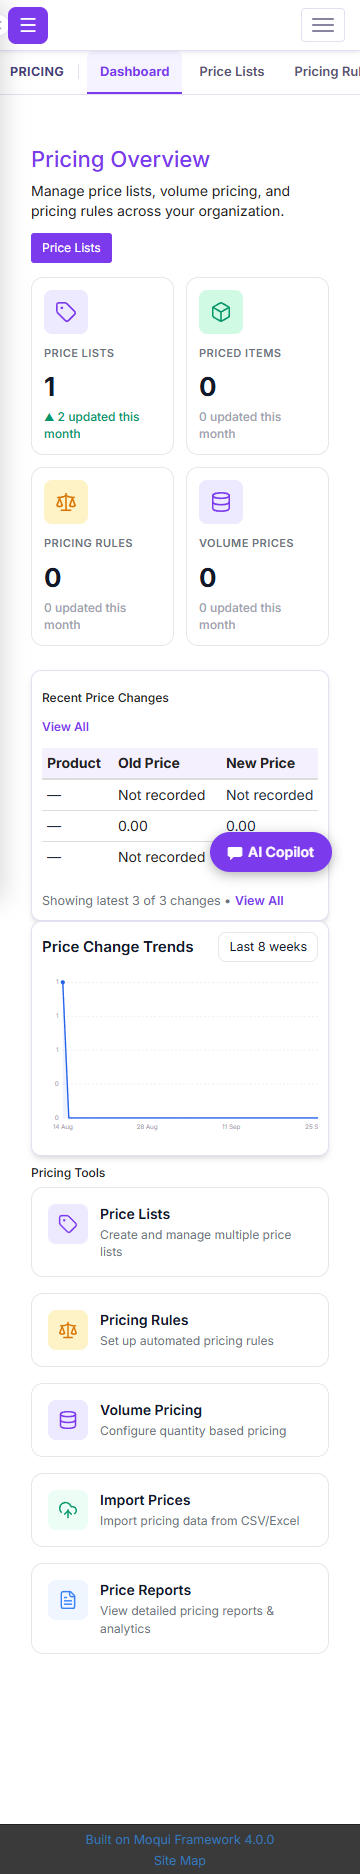
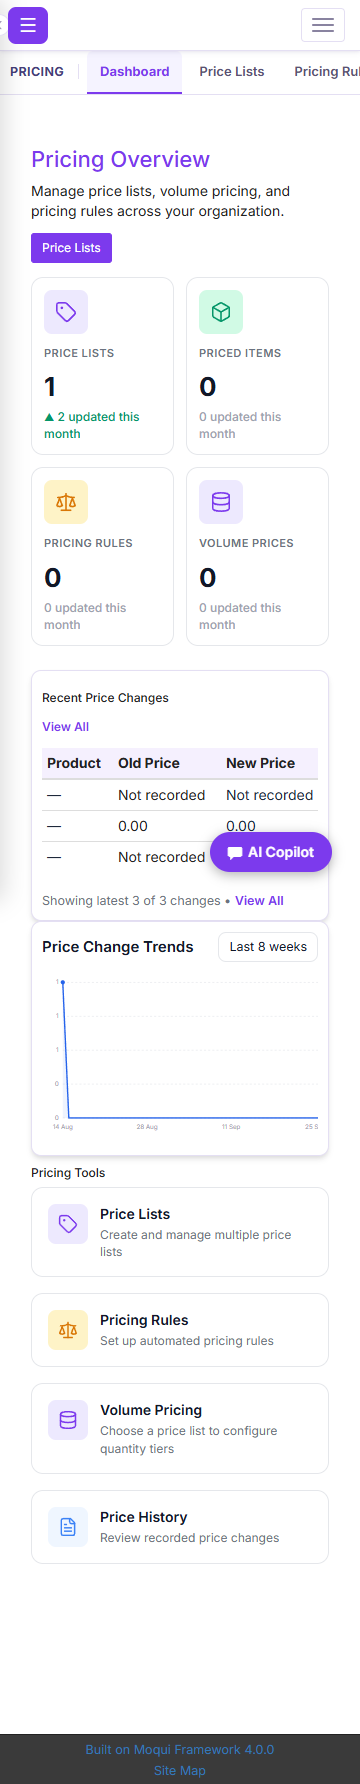
fix(pricing): finish tool navigation and wrapped module headers
Remove the unimplemented import card and accurately label the history destination. Keep all four native Pricing module tabs below wrapped utility headers, initialize observers after DOM readiness, and bump both leaf asset cache versions.

Verified 69 disposable Dashboard/UI checks across both interfaces and five widths, all four native landings, no JavaScript errors, independent unchanged SQL snapshots and exact cleanup. The 62 passing assignment checks remain applicable to unchanged assignment service code. Production inspection was read-only; owner no-op evidence remains a deployment gate.

diff --git a/component/zenith-erp-app/screen/zenithstatic/js/pricing-dashboard.js b/component/zenith-erp-app/screen/zenithstatic/js/pricing-dashboard.js
@@ -1,9 +1,12 @@
 /* Reserve the measured wrapped header only while an Pricing Dashboard screen is rendered. */
 (function () {
-    if (location.pathname.indexOf('/qapps/') !== 0) return;
+  function start() {
+    if (!document.body || window.zprdHeaderObserver) return;
+    window.zprdHeaderObserver = true;
     var watchedHeader = null, headerObserver = null, pending = false;
     function sync() {
         pending = false;
+        document.body.classList.toggle('zprd-module', /^\/(?:apps|qapps)\/zenith\/pricing(?:\/|$)/.test(location.pathname));
         var header = document.querySelector('.q-header');
         if (header !== watchedHeader) {
             if (headerObserver) headerObserver.disconnect();
@@ -24,5 +27,9 @@
     }
     new MutationObserver(schedule).observe(document.body, { childList:true, subtree:true });
     window.addEventListener('resize', schedule);
+    window.addEventListener('popstate', schedule);
     schedule();
+  }
+  if (document.readyState === 'loading') document.addEventListener('DOMContentLoaded', start, {once:true});
+  else start();
 })();

diff --git a/component/zenith-erp-app/screen/zenithstatic/css/pricing-dashboard.css b/component/zenith-erp-app/screen/zenithstatic/css/pricing-dashboard.css
@@ -31,8 +31,8 @@ body.dev.zq-nav:has(.zprd-page) #top .q-toolbar>button .block{color:#F5F3FF!impo
 .zprd-page .row>div {min-width:0}
 .zprd-page .zprd-stats>div {min-width:0;overflow-wrap:anywhere}
 /* Wrapped Bootstrap utilities must contribute height before the module tabs. */
-body:not(.zq-nav):has(.zprd-page) #top,body:not(.zq-nav):has(.zprd-page) #top .navbar {height:auto}
-body:not(.zq-nav):has(.zprd-page) #z-subnav {clear:both}
+body.zprd-module:not(.zq-nav) #top,body.zprd-module:not(.zq-nav) #top .navbar {height:auto}
+body.zprd-module:not(.zq-nav) #z-subnav {clear:both}
 @media(max-width:600px) {
   .zprd-page .zprd-stats {grid-template-columns:repeat(2,minmax(0,1fr))!important;gap:12px!important}
   .zprd-page .zprd-stats>div {padding:12px!important}

diff --git a/docs/qa/pricing-dashboard/README.md b/docs/qa/pricing-dashboard/README.md
@@ -6,4 +6,6 @@ Copy `fixture.xml` to `runtime/component/zenith-erp-pricing/PricingDashboardQaFi
 
 The baseline reproduced 11 failed checks: raw no-org KPIs/month counts/log/chart exposure, missing amounts rendered as zero, invented rupee amounts, and the Quasar dashboard tools switching to `/apps` after real module navigation. The existing chart boundary check passed baseline; calendar arithmetic is now explicitly expressed in the user's timezone without claiming a reproduced timezone failure.
 
-Final evidence: 63 passing checks, both interfaces, five widths (1920/1366/768/390/360), actual tool and wrapped-header tab clicks, independently queried KPI totals, inclusive chart bounds, no browser errors, six unchanged business-table snapshots, exact cleanup, and zero fixture residue across 13 tables. Mobile screenshots contain synthetic records only. Local public-framework rebuild is not claimed byte-identical to production; trusted master staging supplies separate verification. The SOP owner MARUTHI before/after no-op DB proof remains a deployment gate.
+Final evidence: 69 passing checks, both interfaces, five widths (1920/1366/768/390/360), actual tool and wrapped-header tab clicks across all four native Pricing landings, independently queried KPI totals, inclusive chart bounds, no browser errors, six unchanged business-table snapshots, exact cleanup, and zero fixture residue across 13 tables. Mobile screenshots contain synthetic records only. Local public-framework rebuild is not claimed byte-identical to production; trusted master staging supplies separate verification. The SOP owner MARUTHI before/after no-op DB proof remains a deployment gate.
+
+The remaining UI pass removes the unimplemented Import Prices card and labels the history destination accurately; live inspection confirmed those misleading tool links. Wrapped Bootstrap header correction is scoped to the active Pricing module, including History/Lists/Rules, and both assets use a new cache version.
